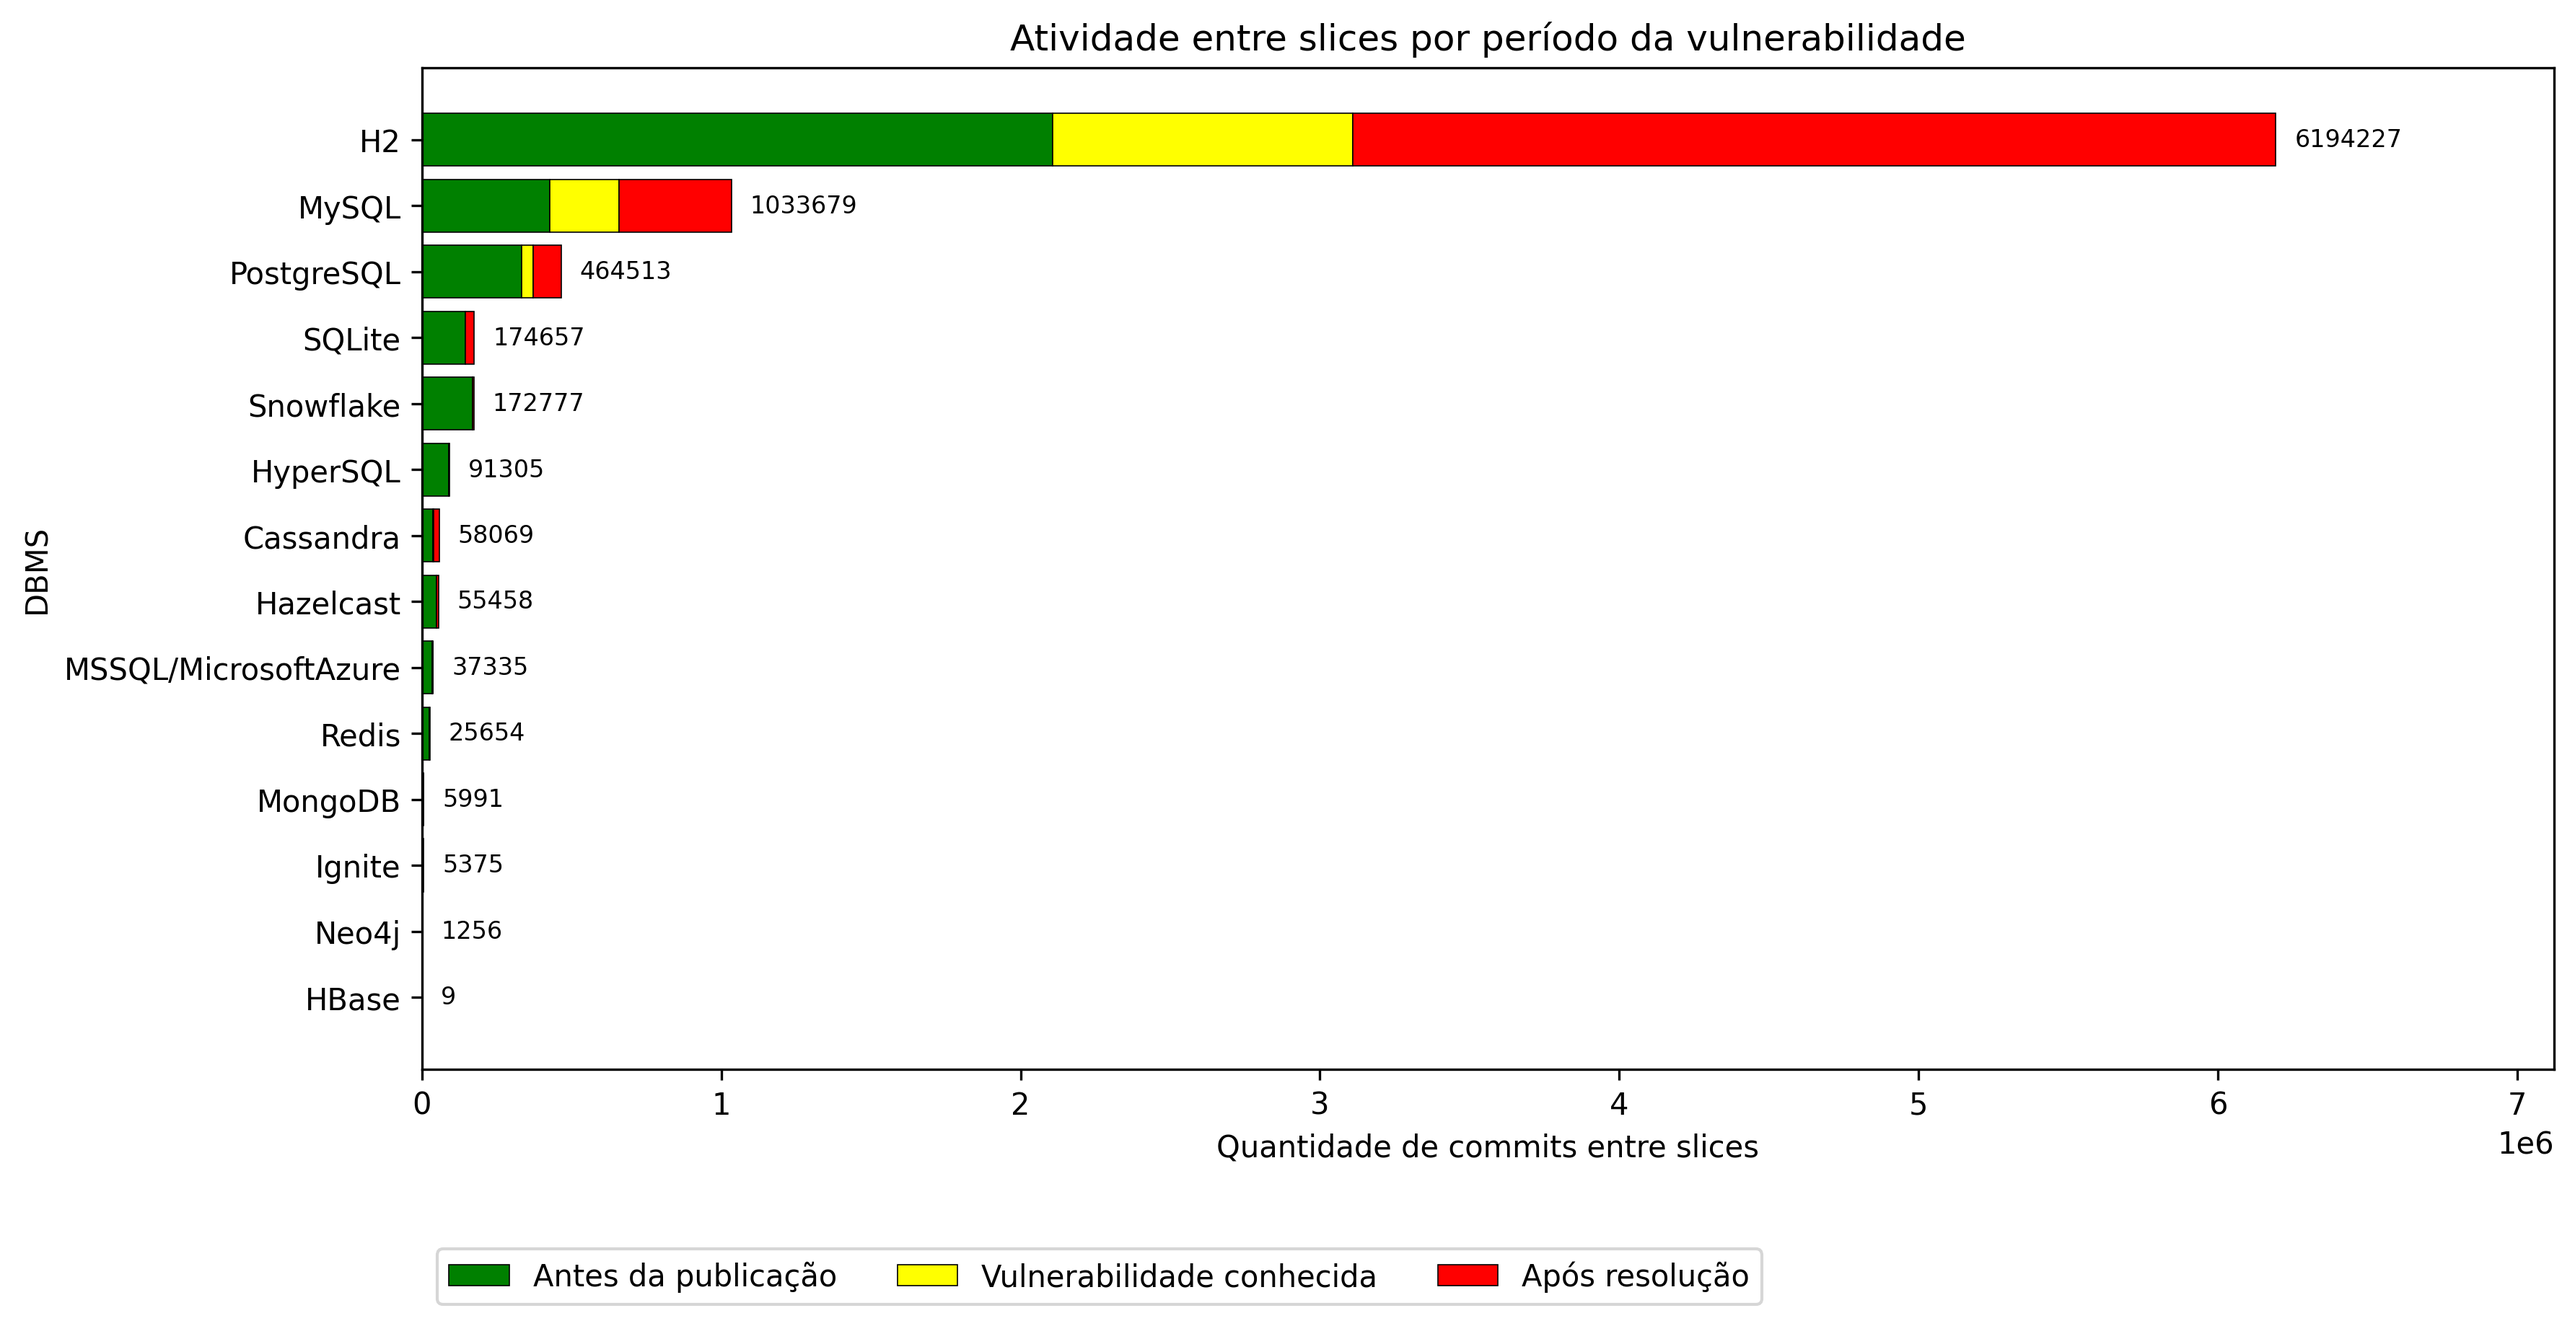
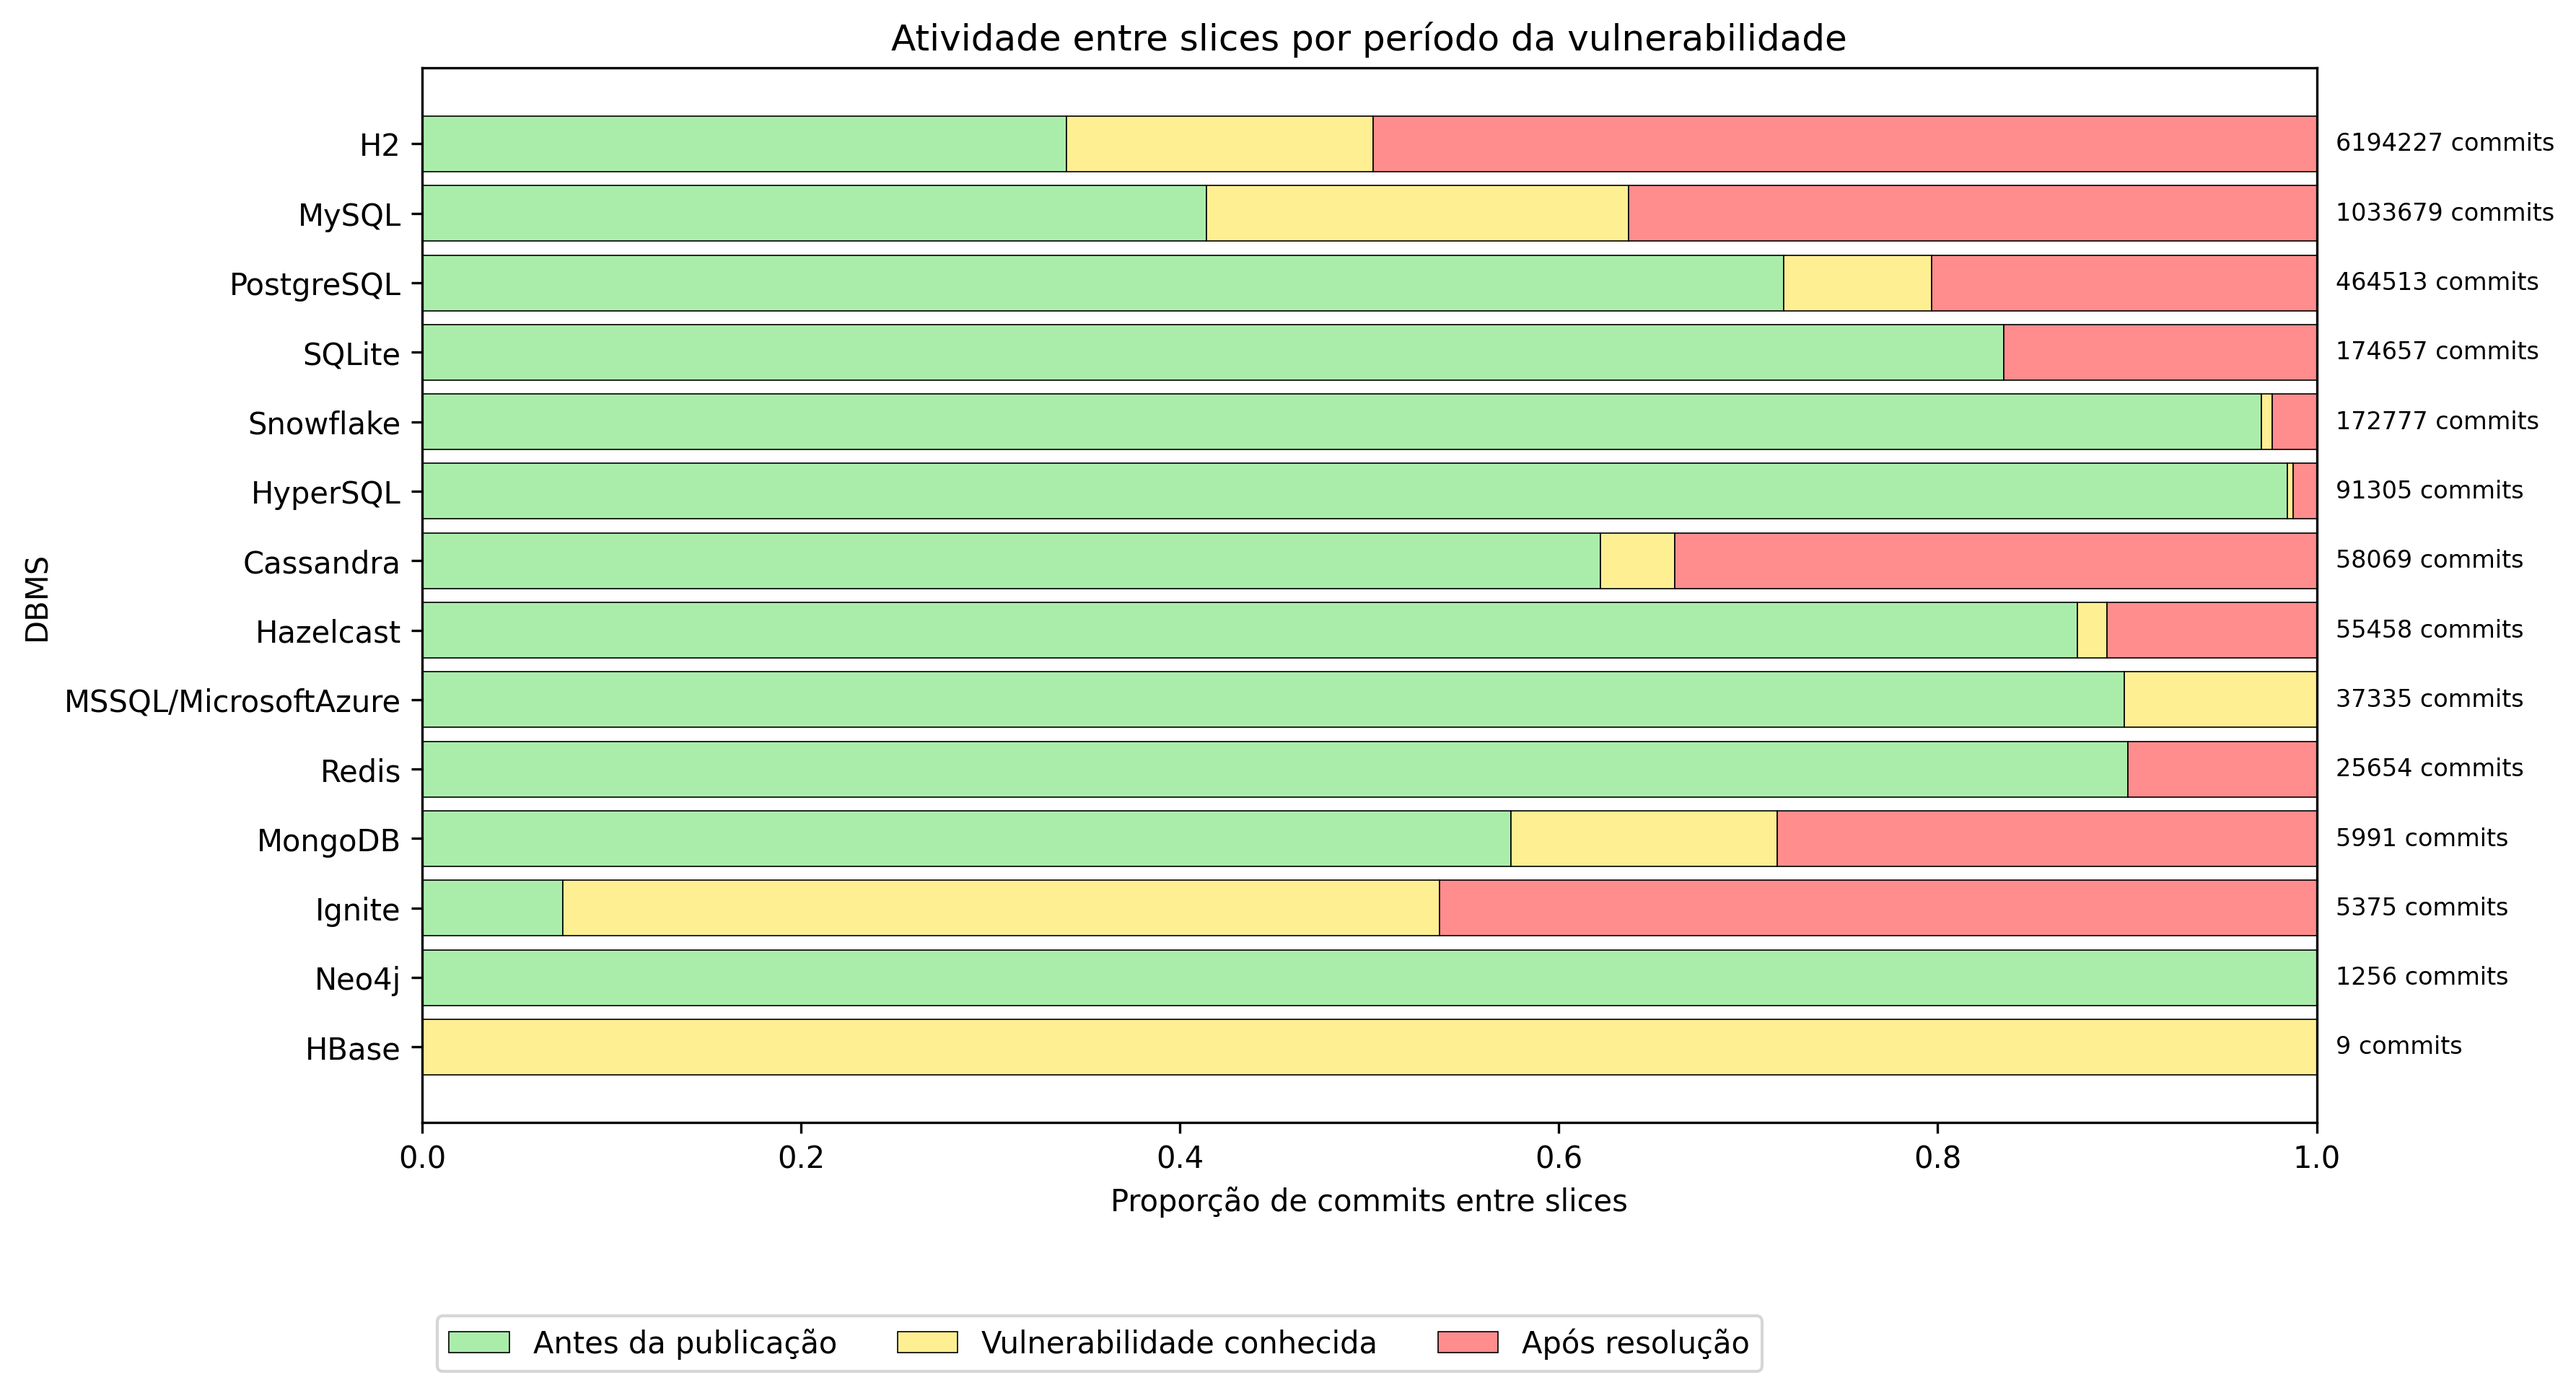
Resultados Rq2

diff --git a/src/gerar_rq1_vulnerable_activity.py b/src/gerar_rq1_vulnerable_activity.py
@@ -158,19 +158,26 @@ def plot_vulnerable_activity_by_dbms(pivot, output_dir):
     }
 
     colors = {
-        "before_publication": "green",
-        "known_vulnerability": "yellow",
-        "after_resolution": "red"
+    "before_publication": "#aaedaa",      # verde suave
+    "known_vulnerability": "#ffef93",     # laranja suave (melhor que amarelo)
+    "after_resolution": "#ff8d8d"         # rosa/vermelho suave
     }
 
-    height = max(6, len(pivot) * 0.45)
+    pivot = pivot.copy()
+
+    absolute_total = pivot["total"].copy()
+
+    plot_df = pivot[period_order].copy()
+    plot_df = plot_df.div(plot_df.sum(axis=1), axis=0).fillna(0)
+
+    height = max(6, len(plot_df) * 0.45)
     fig, ax = plt.subplots(figsize=(12, height))
 
-    y_positions = range(len(pivot))
-    left = pd.Series([0] * len(pivot), index=pivot.index)
+    y_positions = range(len(plot_df))
+    left = pd.Series([0.0] * len(plot_df), index=plot_df.index)
 
     for period in period_order:
-        values = pivot[period]
+        values = plot_df[period]
 
         ax.barh(
             y_positions,
@@ -185,29 +192,30 @@ def plot_vulnerable_activity_by_dbms(pivot, output_dir):
         left = left + values
 
     ax.set_yticks(y_positions)
-    ax.set_yticklabels(pivot.index)
+    ax.set_yticklabels(plot_df.index)
 
-    ax.set_xlabel("Quantidade de commits entre slices")
+    ax.set_xlim(0, 1)
+    ax.set_xlabel("Proporção de commits entre slices")
     ax.set_ylabel("DBMS")
     ax.set_title("Atividade entre slices por período da vulnerabilidade")
+
     ax.legend(
-    loc="lower left",
-    bbox_to_anchor=(0, -0.25),
-    ncol=3,
-    frameon=True
-)
+        loc="lower left",
+        bbox_to_anchor=(0, -0.25),
+        ncol=3,
+        frameon=True
+    )
 
-    max_value = pivot["total"].max()
-    ax.set_xlim(0, max_value * 1.15)
-
-    for i, total in enumerate(pivot["total"]):
+    for i, db in enumerate(plot_df.index):
         ax.text(
-            total + max_value * 0.01,
+            1.01,
             i,
-            str(int(total)),
+            f"{int(absolute_total.loc[db])} commits",
             va="center",
             fontsize=8
         )
+
+    fig.tight_layout(rect=[0, 0.12, 1, 1])
 
     save_plot(
         fig,
